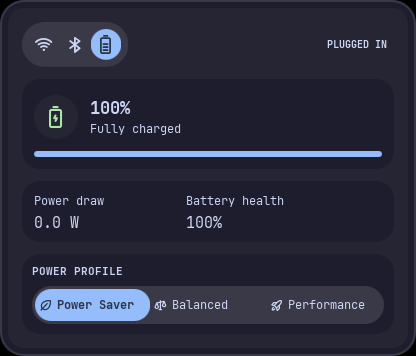
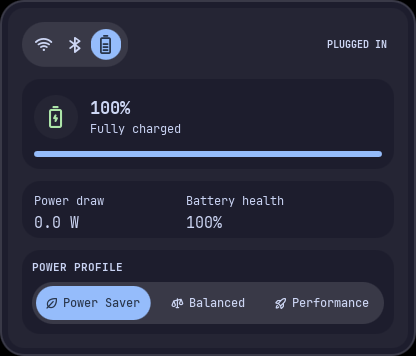
style(battery): refine power profile selector spacing and states

Changed region(s): [[0.0625, 0.7416, 0.9062, 0.927], [0.6562, 0.8343, 0.9062, 0.8961], [0.3125, 0.8961, 0.3438, 0.927]]

diff --git a/modules/bar/island/IslandBatteryPanel.qml b/modules/bar/island/IslandBatteryPanel.qml
@@ -301,10 +301,10 @@ Item {
                     id: profileSelector
                     objectName: "powerProfileSelector"
                     Layout.fillWidth: true
-                    Layout.preferredHeight: Math.max(38, Styling.fontSize(0) * 2.6)
+                    Layout.preferredHeight: Styling.fontSize(0) * 3
                     variant: "focus"
                     radius: height / 2
-                    readonly property real inset: Styling.fontSize(-4) * 0.3
+                    readonly property real inset: Styling.fontSize(-4) * 0.4
 
                     ElasticHighlight {
                         id: profileHighlight
@@ -334,7 +334,7 @@ Item {
                                 objectName: "powerProfileTab-" + modelData
                                 width: profileTabs.width / root.profileModes.length
                                 height: profileTabs.height
-                                padding: Styling.fontSize(-4) * 0.4
+                                padding: Styling.fontSize(-4) * 0.6
                                 enabled: PowerProfile.isAvailable && PowerProfile.availableProfiles.indexOf(modelData) !== -1
                                 Accessible.name: modelData === "power-saver" ? "Power Saver" : PowerProfile.getProfileDisplayName(modelData)
                                 Accessible.role: Accessible.RadioButton
@@ -343,31 +343,43 @@ Item {
                                 PressBehavior on scale { pressed: profileButton.pressed }
                                 background: StyledRect {
                                     variant: "focus"
-                                    backgroundOpacity: profileButton.visualFocus ? 1 : 0
+                                    backgroundOpacity: 0
                                     radius: height / 2
-                                    HoverTint { hovered: profileButton.hovered; pressed: profileButton.pressed }
-                                }
-                                contentItem: RowLayout {
-                                    spacing: Styling.fontSize(-4) * 0.5
-                                    StyledText {
-                                        text: PowerProfile.getProfileIcon(profileButton.modelData)
-                                        font.family: Icons.font
-                                        font.pixelSize: Styling.fontSize(-1)
-                                        color: profileButton.selected ? profileHighlight.item : Colors.overBackground
+                                    border.width: profileButton.visualFocus ? Math.max(1, Math.round(Styling.fontSize(-4) / 8)) : 0
+                                    border.color: Colors.primary
+                                    HoverTint {
+                                        hovered: profileButton.hovered && !profileButton.selected
+                                        pressed: profileButton.pressed
+                                        hoverOpacity: 0.08
+                                        pressedOpacity: 0.12
                                     }
-                                    StyledText {
-                                        Layout.fillWidth: true
-                                        text: profileButton.Accessible.name
-                                        font.family: Config.theme.font
-                                        font.pixelSize: Styling.fontSize(-2)
-                                        font.bold: profileButton.selected
-                                        color: profileButton.selected ? profileHighlight.item : Colors.overBackground
-                                        elide: Text.ElideRight
+                                }
+                                contentItem: Item {
+                                    RowLayout {
+                                        anchors.centerIn: parent
+                                        width: Math.min(implicitWidth, parent.width)
+                                        spacing: Styling.fontSize(-4) * 0.5
+                                        StyledText {
+                                            text: PowerProfile.getProfileIcon(profileButton.modelData)
+                                            font.family: Icons.font
+                                            font.pixelSize: Styling.fontSize(-1)
+                                            color: profileButton.selected ? profileHighlight.item : Colors.overBackground
+                                        }
+                                        StyledText {
+                                            id: profileLabel
+                                            Layout.fillWidth: true
+                                            text: profileButton.Accessible.name
+                                            font.family: Config.theme.font
+                                            font.pixelSize: Styling.fontSize(-2)
+                                            font.weight: Font.Medium
+                                            color: profileButton.selected ? profileHighlight.item : Colors.overBackground
+                                            elide: Text.ElideRight
+                                        }
                                     }
                                 }
                                 onClicked: if (!selected) PowerProfile.setProfile(profileButton.modelData)
                                 StyledToolTip {
-                                    show: profileButton.hovered
+                                    show: profileButton.hovered && profileLabel.truncated
                                     tooltipText: profileButton.Accessible.name
                                 }
                             }

diff --git a/docs/audio-dashboard-surfaces.md b/docs/audio-dashboard-surfaces.md
@@ -38,3 +38,8 @@ critical-battery notification action. Physical power-profile writes are not
 performed. The tray screenshot check also converts logical bounds to physical
 pixels; its crop is checked at output scales 1, 1.2, and 2. Native Hyprland
 fractional-scale execution is unavailable on this host.
+
+Power-profile labels keep a stable medium weight and centered icon/text groups.
+Hover uses a light wash, keyboard focus uses an outline, and the selected pill
+remains the strongest state. Tooltips appear only when a label is truncated.
+Native captures cover hover, focus, selection, and enlarged text.
